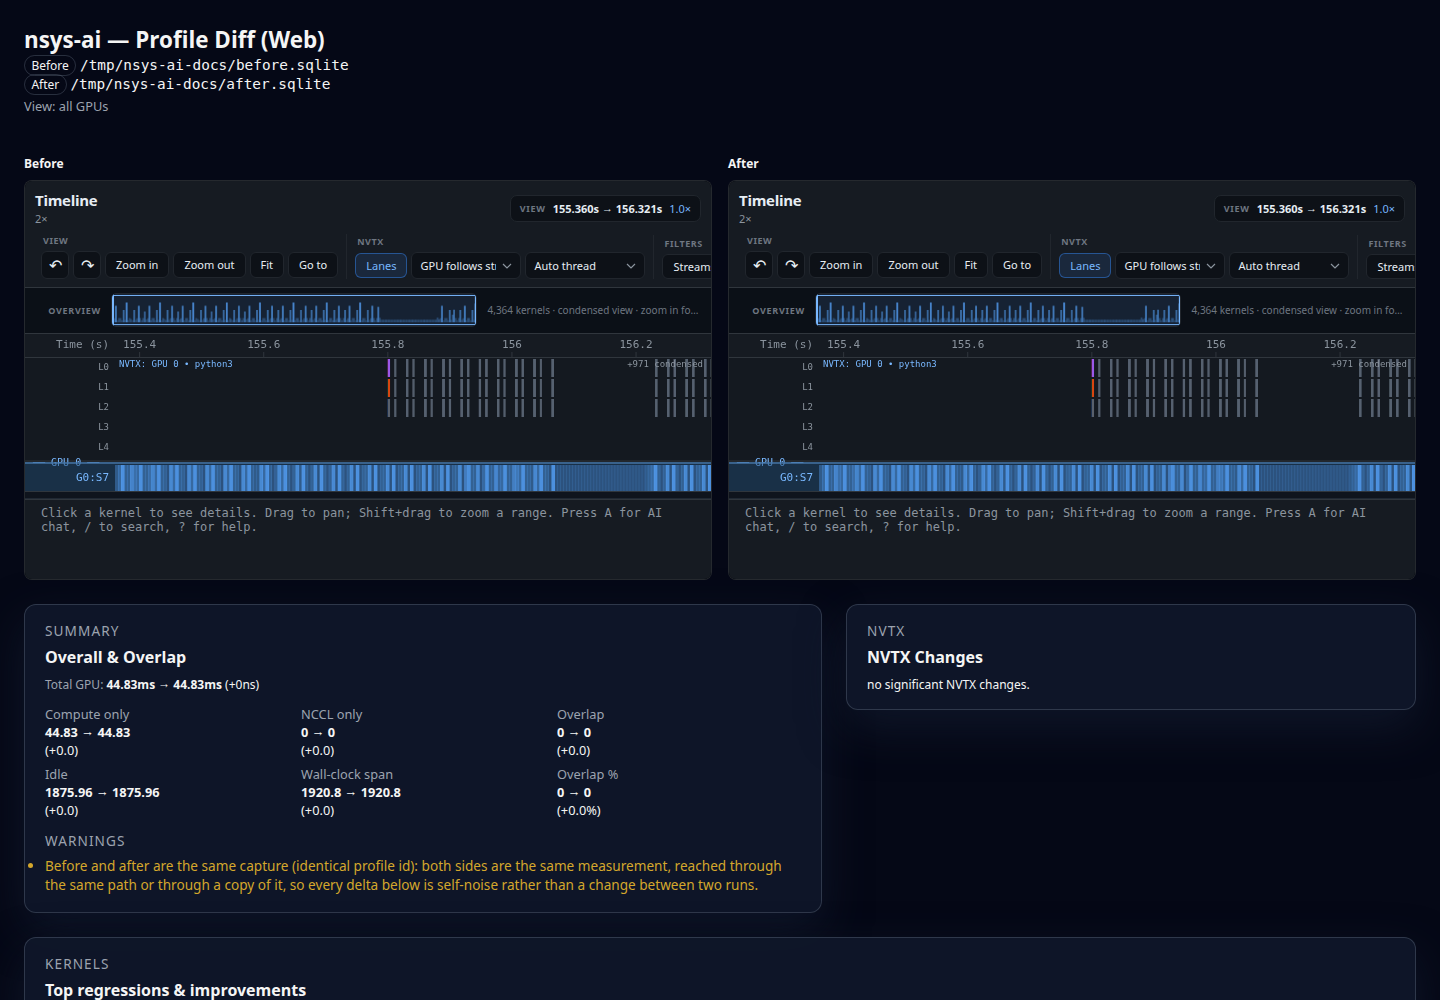
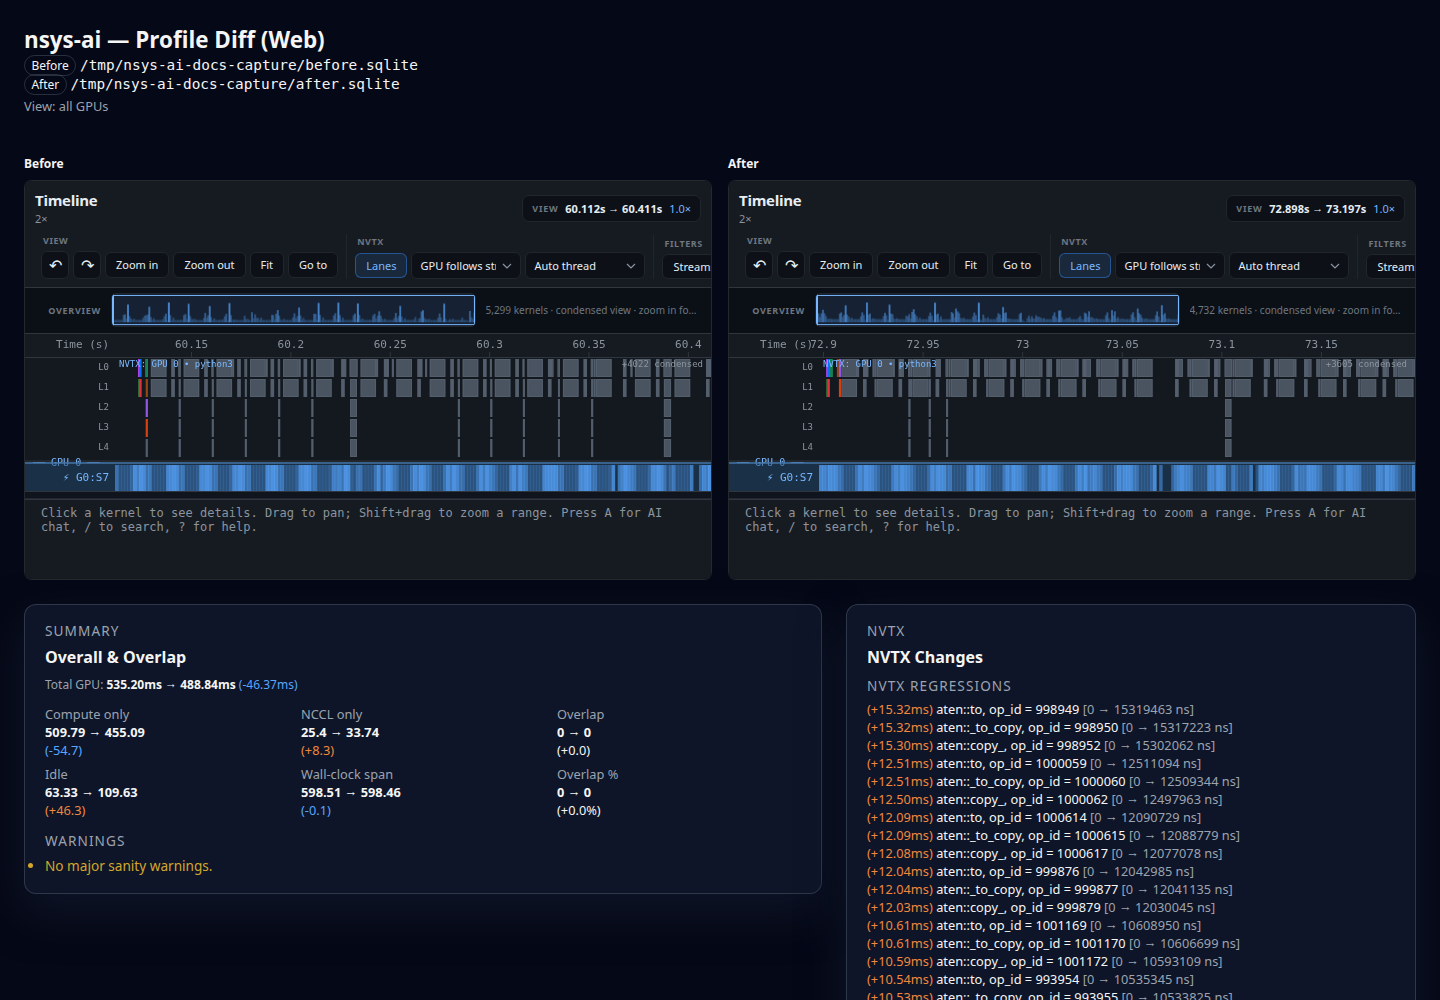
docs: refresh viewer screenshots with real diff (#552)

diff --git a/docs/images/README.md b/docs/images/README.md
@@ -1,8 +1,9 @@
 # Documentation screenshots
 
-These PNGs are committed screenshots of the browser surfaces, captured from
-`tests/fixtures/h100_2gpu_1s.sqlite`. They are intentionally small: each file
-must remain below **300 KiB** and use a 1440×1000 viewport.
+These PNGs are committed screenshots of the browser surfaces. The tree,
+guided-loop, and diff captures use a 1440×1000 viewport; the timeline capture
+uses 1440×420 so its controls and GPU lanes fill the frame instead of leaving
+most of the image empty. Each file must remain below **300 KiB**.
 
 The images are referenced by the README, [`user/viewers.md`](../user/viewers.md),
 and [`guided-loop-setup.md`](../guided-loop-setup.md). Keep the four captures in
@@ -23,12 +24,14 @@ Start each local surface in a separate terminal from the repository root:
 
 ```bash
 PROFILE=tests/fixtures/h100_2gpu_1s.sqlite
+BEFORE=tests/fixtures/mfu_2gpu_before.sqlite
+AFTER=tests/fixtures/mfu_2gpu_after.sqlite
 
 nsys-ai web "$PROFILE" --port 18242 --no-browser
 nsys-ai timeline-web "$PROFILE" --port 18244 --no-browser
 
-cp "$PROFILE" /tmp/nsys-ai-docs-capture/before.sqlite
-cp "$PROFILE" /tmp/nsys-ai-docs-capture/after.sqlite
+cp "$BEFORE" /tmp/nsys-ai-docs-capture/before.sqlite
+cp "$AFTER" /tmp/nsys-ai-docs-capture/after.sqlite
 nsys-ai diff-web \
   /tmp/nsys-ai-docs-capture/before.sqlite \
   /tmp/nsys-ai-docs-capture/after.sqlite \
